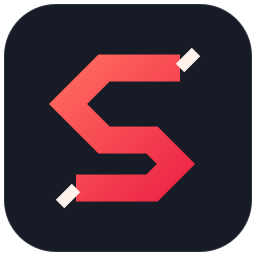
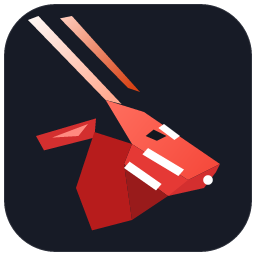
fix: replace legacy branding assets with consistent saola artwork (1.2.1)

Changed region(s): [[0.0938, 0.0625, 0.875, 0.9062]]

diff --git a/CHANGELOG.md b/CHANGELOG.md
@@ -7,6 +7,14 @@ Các thay đổi đáng chú ý của **Saola for VS Code**.
 
 ---
 
+## [1.2.1] — 2026-11-02
+
+- Đồng bộ logo extension và file `.sao` sang hình đầu sao la; giữ các biến thể tương phản cho nền sáng/tối.
+- Thay ảnh nguồn OneJS, ảnh One/Laravel cũ và icon chữ S bằng cùng một mẫu sao la.
+- `images/logo.svg` là nguồn vector; `icon.png` (256px), `icon-2048-source.png` (2048px) và ảnh tương thích `one-icon.png` được xuất từ nguồn này.
+
+---
+
 ## [1.2.0] — 2026-11-02
 
 - Thêm completion, snippet và tô màu `@middleware(...)`, `@useAuth`/`@useauth` trong `<script setup>` và ngoài template.

diff --git a/README.md b/README.md
@@ -126,6 +126,10 @@ one-line script/style blocks are expanded and formatted too.
 
 ## Changelog
 
+The vector logo source is `images/logo.svg`. The 256px Marketplace icon and
+2048px PNG are exported from it; the file icons in `icons/` use the same saola
+mark with contrast variants for light and dark themes.
+
 ### Version 1.7.7
 - **Major Syntax Coloring Overhaul**: Switched to `source.js` for all modern expressions. Variables (`userAvatar`), Functions (`useState`), and Operators (`=, +, []`) now follow standard JavaScript colors for maximum readability.
 - **Improved Foreach Highlighting**: Added specific keyword support for `as` within modern `@foreach` loops.
